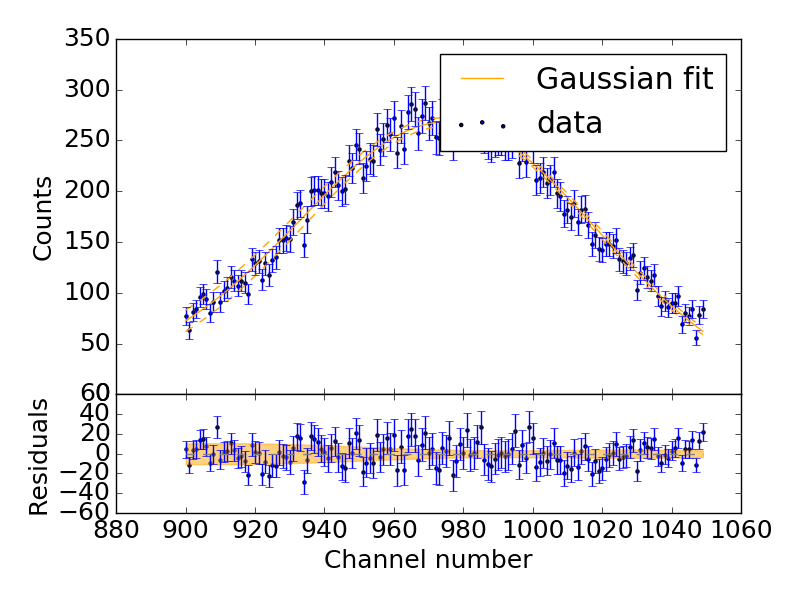
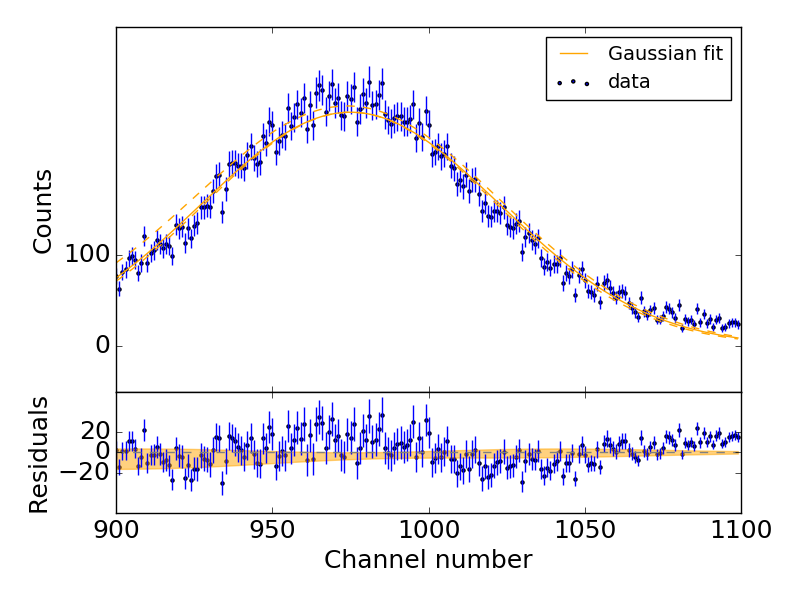
more plots

diff --git a/scripts/gaussian_fitter.py b/scripts/gaussian_fitter.py
@@ -55,24 +55,27 @@ def plotter(num, key, guess_mean, guess_width = 2, guess_height=1, plot = True):
         max[0], max[2], min[0], min[2] = popt[0], popt[2], popt[0], popt[2]
         axs[0].plot(x, total_fit(x, *max), color = 'orange',linestyle = '--')
         axs[0].plot(x, total_fit(x, *min), color = 'orange',linestyle = '--')
-        axs[0].errorbar(x, y, yerr = uncert, linestyle = "None")
+        axs[0].errorbar(x, y, yerr = uncert, linestyle = "None",capsize=0)
         axs[0].set_ylabel('Counts')
-        axs[0].legend()
+        axs[0].set_yticks([0,100])
+        axs[0].legend(fontsize=14)
 
         #residual plot
         axs[1].scatter(x, y-total_fit(x, *popt), marker = '.')
-        axs[1].errorbar(x, y-total_fit(x, *popt), yerr = uncert, linestyle = "None")
+        axs[1].errorbar(x, y-total_fit(x, *popt), yerr = uncert, linestyle = "None",capsize=0)
         axs[1].set_ylabel('Residuals') #, position = (0,0))
         plt.xlabel('Channel number')
         axs[1].plot(x,np.zeros(len(x)), color='grey', linestyle = '--')
         axs[1].fill_between(x, total_fit(x, *popt)-total_fit(x, *max), total_fit(x, *popt)-total_fit(x, *min), color = 'orange', alpha = 0.5)
+        axs[1].set_yticks([-20,0,20])
         plt.subplots_adjust(wspace=0, hspace=0)
         plt.tight_layout()
+        plt.xlim(num[0],num[1])
         plt.savefig('../figures/{}_gaussian.png'.format(key))
         # plt.show()
         plt.close()
     # print(popt, uncertainty)
-    return [popt[0], uncertainty[1]]
+    return [popt[0], uncertainty[0]]
 
 def reverse_line(x,a,b):
     return (x-b)/a
@@ -80,7 +83,7 @@ def reverse_line(x,a,b):
 def line(x,a,b):
     return a*x+b
 
-def line_fit(points_y, litterature, plot = True):
+def line_fit(points_y, litterature, angle, plot = True):
     '''
     Takes in
     points_y: calibration data and uncertainty
@@ -93,31 +96,37 @@ def line_fit(points_y, litterature, plot = True):
     chi_sqd = np.sum((points_y[:,0]-reverse_line(litterature[0], *popt))**2/points_y[:,1])
     if plot:
         # plot the line
+        plt.clf()
+        plt.rcParams.update({'font.size': 18})
         fig, axs = plt.subplots(2,1, sharex=True, sharey=False, gridspec_kw = {'height_ratios': [3,1],'wspace':0, 'hspace':0})
 
         max = uncertainty + popt
         min = -uncertainty + popt
         axs[0].scatter(litterature[0], points_y[:,0],marker = '.', label = 'data')
-        axs[0].errorbar(litterature[0],points_y[:,0],  yerr = points_y[:,1], linestyle = "None")
+        axs[0].errorbar(litterature[0],points_y[:,0],  yerr = points_y[:,1], linestyle = "None",capsize=0)
+        print(points_y[:,1])
         axs[0].plot(line(points_y[:,0], *popt), points_y[:,0], color = 'orange', label = 'Linear Fit')
         axs[0].set_ylabel('Channel Number')
-        n = ['Ba-133','Co-57','Na-22', 'Cs-137']
+        axs[0].set_yticks([600,1200,1800])
+        n = ['Ba-133','Co-57','Cs-137','Na-22']
         positions = [(litterature[0][1]+10, points_y[:,0][1]-50),(litterature[0][3]+20,points_y[:,0][3]-30),
-                     (litterature[0][2]-20, points_y[:,0][2]-100),(litterature[0][0], points_y[:,0][0]-50)]
+                     (litterature[0][2]-40, points_y[:,0][2]-100),(litterature[0][0], points_y[:,0][0]-50)]
         for i, txt in enumerate(n):
-            axs[0].annotate(txt, positions[i], fontsize=10)
-        axs[0].legend()
+            axs[0].annotate(txt, positions[i], fontsize=14)
+        axs[0].legend(loc = 'upper left', fontsize = 14)
         #plot the residuals
         linspace = np.linspace(np.min(litterature[0]),np.max(litterature[0]),1000)
         axs[1].scatter(litterature[0],points_y[:,0]-reverse_line(litterature[0], *popt),  marker = '.')
-        axs[1].errorbar(litterature[0],points_y[:,0]-reverse_line(litterature[0], *popt),  yerr = points_y[:,1], linestyle = "None")
+        axs[1].errorbar(litterature[0],points_y[:,0]-reverse_line(litterature[0], *popt),  yerr = points_y[:,1], linestyle = "None",capsize=0)
         axs[1].fill_between(linspace, reverse_line(linspace, *popt)-reverse_line(linspace, *max),
                              reverse_line(linspace, *popt)-reverse_line(linspace, *min), color = 'orange', alpha = 0.5)
         axs[1].plot(linspace,np.zeros(len(linspace)), color='grey', linestyle = '--')
+        axs[1].set_yticks([-10,0,10])
         axs[1].set_ylabel('Residuals')
+        plt.xlim(100,700)
         plt.xlabel('Energy (keV)')
         plt.tight_layout()
-        plt.savefig('../figures/line.png')
+        plt.savefig('../data/tungsten/Angles/{}/line.png'.format(angle))
     print(popt, uncertainty)
     return popt, uncertainty
 
@@ -140,9 +149,9 @@ if __name__ == "__main__":
         for element in ft.SOURCE_NAMES:
             elements[element] = ft.get_data(os.path.join("../data/tungsten/Angles/{}/00_Other_Sources".format(angle), element))
         line_points = []
-        line_points.append(plotter([1200,1450], 'Na-22', guess_mean = 1360))
-        line_points.append(plotter([900,1050], 'Ba-133', guess_mean = 970))
-        line_points.append(plotter([1550,1910], 'Cs-137', 1742, guess_width = 58, guess_height=77))
+        line_points.append(plotter([1200,1500], 'Na-22', guess_mean = 1360))
+        line_points.append(plotter([900,1100], 'Ba-133', guess_mean = 970))
+        line_points.append(plotter([1500,2000], 'Cs-137', 1742, guess_width = 58, guess_height=77))
         line_points.append(plotter([315,380], 'Co-57', 350,  guess_width = 2, guess_height=1600))
-        [a,b], [a_u,b_u] = line_fit(np.array(line_points), [[511.0, 356.0129, 661.657, 122.06065],[5, 7, 3, 12]]) 
+        [a,b], [a_u,b_u] = line_fit(np.array(line_points), [[511.0, 356.0129, 661.657, 122.06065],[5, 7, 3, 12]], angle) 
         np.savez("../data/tungsten/Angles/{}/line_coefs.npz".format(angle), coefs = [a,b], unc = [a_u, b_u])
